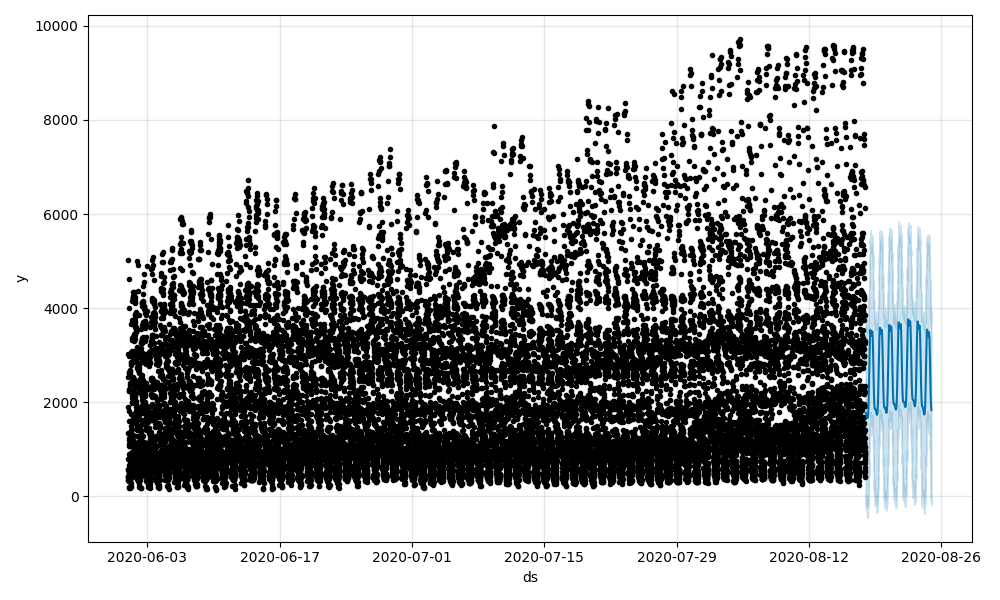
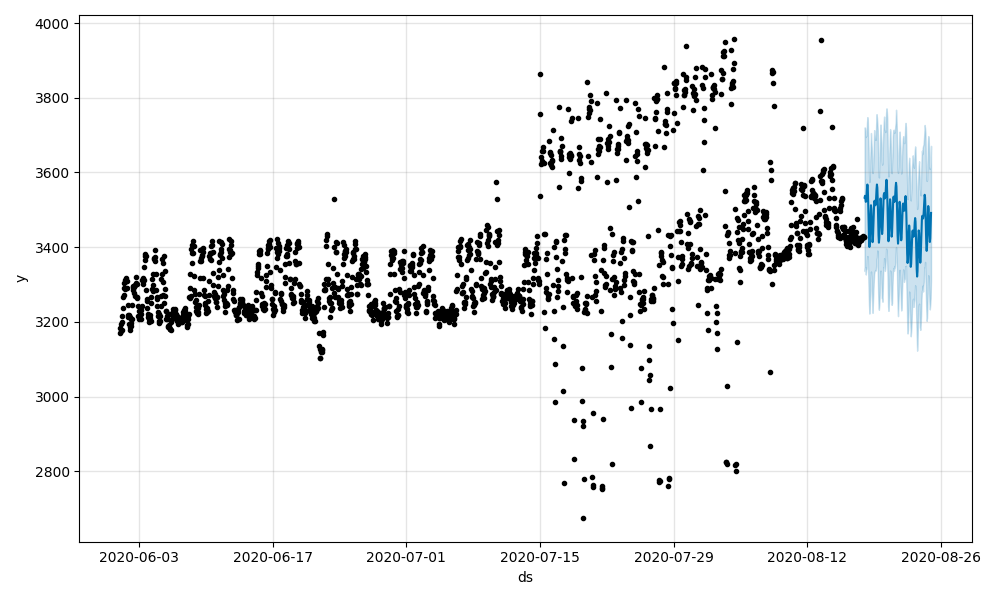
default model로 예측

diff --git a/main_code.py b/main_code.py
@@ -247,7 +247,7 @@ data_add['weekday'] = data_add['weekday'].astype(int)
 df_list = list([])
 
 for i in range(1, 61):
-    df_list.append(data_add[data_add['num'] == i].reset_index(drop = True).iloc[:, 1:])
+    df_list.append(data_add[data_add['num'] == i].reset_index(drop = True).iloc[:, :])
 
 avg_list = []
 for i in range(len(df_list)):
@@ -298,7 +298,7 @@ for c in range(4):
     plt.xlabel('')
     plt.ylabel('')
     plt.yticks([])
-plt.savefig("/Users/baeksumin/apps/electricity/image/test2.png")
+# plt.savefig("/Users/baeksumin/apps/electricity/image/test2.png")
     
 
 # prophet이 포맷으로 rename 
@@ -308,7 +308,7 @@ plt.savefig("/Users/baeksumin/apps/electricity/image/test2.png")
 # print(data)
 
 df_cluster = df_cluster[['num', 'date_time', '전력사용량(kWh)', '기온(°C)', '풍속(m/s)', '습도(%)', '일조(hr)', '불쾌지수', '체감온도','비전기냉방설비운영', '태양광보유', 'cluster']]
-df_cluster = df_cluster.rename(columns = {'date_time': 'ds', '전력사용량(kWh)': 'y', '기온(°C)' : 'add1', '풍속(m/s)': 'add2', '습도(%)': 'add3', '일조(hr)': 'add4', '불쾌지수': 'add5', '체감온도': 'add6','비전기냉방설비운영': 'add7', '태양광보유': 'add8', 'km_cluster' : 'add9'})
+df_cluster = df_cluster.rename(columns = {'date_time': 'ds', '전력사용량(kWh)': 'y', '기온(°C)' : 'add1', '풍속(m/s)': 'add2', '습도(%)': 'add3', '일조(hr)': 'add4', '불쾌지수': 'add5', '체감온도': 'add6','비전기냉방설비운영': 'add7', '태양광보유': 'add8', 'cluster' : 'add9'})
 
 df_cluster = df_cluster.sort_values(by=["ds", "num"], ascending=[True, True], ignore_index=True)
 # print(last_data)
@@ -374,23 +374,26 @@ for i in range(0,4):
 # optimum_df.to_csv('/Users/baeksumin/apps/electricity/dataset/optimum_df/{}.csv'.format(today_), encoding = 'UTF-8', index = False)
 
 
-# # default model
+# default model
 
-# for i in range(4):
-#     model = Prophet(
-#         yearly_seasonality = False,
-#         holidays = holiday,
-#     ).add_seasonality(name = 'monthly', period = 30.5, fourier_order = 5)
-#     model.fit(train_df_list[i])
+for i in range(4):
+    model = Prophet(
+        yearly_seasonality = False,
+        holidays = holiday,
+    ).add_seasonality(name = 'monthly', period = 30.5, fourier_order = 5)
+    model.fit(train_df_list[i])
 
-#     forecast = model.predict(test_df_list[i])
-#     model.plot(forecast)
-#     plt.savefig('/Users/baeksumin/apps/electricity/image/energy_future_{}.png'.format(i + 1))
-#     y_true = list(test_df_list[i]['y'])
-#     y_pred = list(forecast['yhat'])
-#     MSE = np.square(np.subtract(y_true,y_pred)).mean() 
+    forecast = model.predict(test_df_list[i])
+    model.plot(forecast)
+    plt.savefig('/Users/baeksumin/apps/electricity/image/energy_future_{}.png'.format(i + 1))
+    y_true = list(test_df_list[i]['y'])
+    y_pred = list(forecast['yhat'])
+    MSE = np.square(np.subtract(y_true,y_pred)).mean() 
     
-#     print(MSE) # default 모델 사용했을때 5115003.44164709
+    print(MSE) 
+    # default 모델 사용했을때 5115003.44164709
+    # 두번째 군집화 후 default 모델 사용했을때, 5979302, 8402, 2477111, 847640 
+
 
 
 
